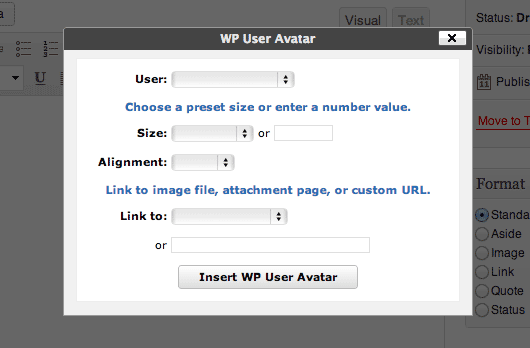
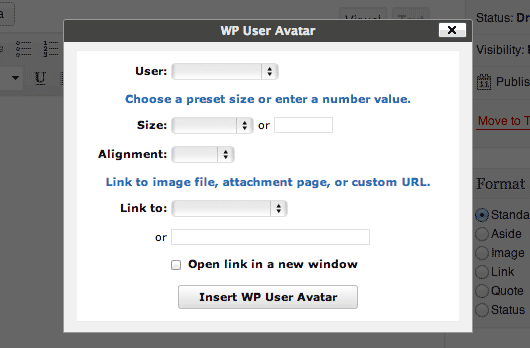
Add target to link in shortcode.

diff --git a/includes/tinymce/editor_plugin.js b/includes/tinymce/editor_plugin.js
@@ -1,1 +1,1 @@
-(function(){tinymce.PluginManager.requireLangPack('wpUserAvatar');tinymce.create('tinymce.plugins.wpUserAvatar',{init:function(ed,url){ed.addCommand('mceWpUserAvatar',function(){ed.windowManager.open({file:ajaxurl+'?action=wp_user_avatar_tinymce',width:400,height:260,inline:1},{plugin_url:url})});ed.addButton('wpUserAvatar',{title:'Insert WP User Avatar',cmd:'mceWpUserAvatar',image:url+'/../../images/wp-user-avatar-32x32.png'});ed.onNodeChange.add(function(ed,cm,n){cm.setActive('wpUserAvatar',n.nodeName=='IMG')})},createControl:function(n,cm){return null},getInfo:function(){return{longname:'WP User Avatar',author:'Bangbay Siboliban',authorurl:'http://siboliban.org/',infourl:'http://wordpress.org/extend/plugins/wp-user-avatar/',version:"1.3.6"}}});tinymce.PluginManager.add('wpUserAvatar',tinymce.plugins.wpUserAvatar)})();
+(function(){tinymce.PluginManager.requireLangPack('wpUserAvatar');tinymce.create('tinymce.plugins.wpUserAvatar',{init:function(ed,url){ed.addCommand('mceWpUserAvatar',function(){ed.windowManager.open({file:ajaxurl+'?action=wp_user_avatar_tinymce',width:400,height:285,inline:1},{plugin_url:url})});ed.addButton('wpUserAvatar',{title:'Insert WP User Avatar',cmd:'mceWpUserAvatar',image:url+'/../../images/wp-user-avatar-32x32.png'});ed.onNodeChange.add(function(ed,cm,n){cm.setActive('wpUserAvatar',n.nodeName=='IMG')})},createControl:function(n,cm){return null},getInfo:function(){return{longname:'WP User Avatar',author:'Bangbay Siboliban',authorurl:'http://siboliban.org/',infourl:'http://wordpress.org/extend/plugins/wp-user-avatar/',version:"1.3.6"}}});tinymce.PluginManager.add('wpUserAvatar',tinymce.plugins.wpUserAvatar)})();

diff --git a/includes/tinymce/editor_plugin.src.js b/includes/tinymce/editor_plugin.src.js
@@ -21,7 +21,7 @@
             // call content via admin-ajax, no need to know the full plugin path
           file : ajaxurl + '?action=wp_user_avatar_tinymce',
           width : 400,
-          height : 260,
+          height : 285,
           inline : 1
         }, {
           plugin_url : url // Plugin absolute URL

diff --git a/wp-user-avatar.php b/wp-user-avatar.php
@@ -339,10 +339,10 @@ if(!class_exists('wp_user_avatar')){
 
       // Remove width and height for non-numeric sizes
       if(!is_numeric($size)){
-        $avatar .= preg_replace("/(width|height)=\'\d*\'\s/", '', $avatar);
-        $avatar .= preg_replace('/(width|height)=\"\d*\"\s/', '', $avatar);
-        $avatar .= str_replace('wp-user-avatar wp-user-avatar-'.$get_size.' ', '', $avatar);
-        $avatar .= str_replace("class='", "class='wp-user-avatar wp-user-avatar-".$size.$alignclass." ", $avatar);
+        $avatar = preg_replace("/(width|height)=\'\d*\'\s/", '', $avatar);
+        $avatar = preg_replace('/(width|height)=\"\d*\"\s/', '', $avatar);
+        $avatar = str_replace('wp-user-avatar wp-user-avatar-'.$get_size.' ', '', $avatar);
+        $avatar = str_replace("class='", "class='wp-user-avatar wp-user-avatar-".$size.$alignclass." ", $avatar);
       }
     }
     return $avatar;
@@ -485,12 +485,12 @@ if(!class_exists('wp_user_avatar')){
     // [avatar size="medium"]
 
     // Set shortcode attributes
-    extract(shortcode_atts(array('user' => '', 'size' => '96', 'align' => '', 'link' => ''), $atts));
+    extract(shortcode_atts(array('user' => '', 'size' => '96', 'align' => '', 'link' => '', 'target' => ''), $atts));
     // Find user by ID, login, slug, or e-mail address
     if(!empty($user)){
       $user = is_numeric($user) ? get_user_by('id', $user) : get_user_by('login', $user);
-      $user .= empty($user) ? get_user_by('slug', $user) : $user;
-      $user .= empty($user) ? get_user_by('email', $user) : $user;
+      $user = empty($user) ? get_user_by('slug', $user) : $user;
+      $user = empty($user) ? get_user_by('email', $user) : $user;
     }
     // Get user ID
     $id_or_email = !empty($user) ? $user->ID : '';
@@ -498,6 +498,8 @@ if(!class_exists('wp_user_avatar')){
     if(!empty($link)){
       // CSS class is same as link type, except for URL
       $link_class = $link;
+      // Open in new window
+      $target_link = !empty($target) ? ' target="'.$target.'"' : '';
       if($link == 'file'){
         // Get image src
         $image_link = get_wp_user_avatar_src($id_or_email, 'original', $align);
@@ -510,7 +512,7 @@ if(!class_exists('wp_user_avatar')){
         $link_class = 'custom';
       }
       // Wrap the avatar inside the link
-      $avatar = '<a href="'.$image_link.'" class="wp-user-avatar-link wp-user-avatar-'.$link_class.'">'.get_wp_user_avatar($id_or_email, $size, $align).'</a>';
+      $avatar = '<a href="'.$image_link.'" class="wp-user-avatar-link wp-user-avatar-'.$link_class.'"'.$target_link.'>'.get_wp_user_avatar($id_or_email, $size, $align).'</a>';
     } else {
       // Get wp_user_avatar as normal
       $avatar = get_wp_user_avatar($id_or_email, $size, $align);

diff --git a/includes/tinymce/window.php b/includes/tinymce/window.php
@@ -13,9 +13,9 @@
   <title>WP User Avatar</title>
   <meta http-equiv="Content-Type" content="<?php bloginfo('html_type'); ?>; charset=<?php echo get_option('blog_charset'); ?>" />
   <base target="_self" />
+  <script type="text/javascript" src="<?php echo site_url(); ?>/wp-includes/js/jquery/jquery.js"></script>
   <script type="text/javascript" src="<?php echo site_url(); ?>/wp-includes/js/tinymce/tiny_mce_popup.js"></script>
   <script type="text/javascript" src="<?php echo site_url(); ?>/wp-includes/js/tinymce/utils/form_utils.js"></script>
-  <script type="text/javascript" src="<?php echo site_url(); ?>/wp-includes/js/jquery/jquery.js"></script>
   <script type="text/javascript">
     function insert_wp_user_avatar(){
       // Custom shortcode values
@@ -26,6 +26,7 @@
       var align = document.getElementById('wp_user_avatar_align').value;
       var link = document.getElementById('wp_user_avatar_link').value;
       var link_external = document.getElementById('wp_user_avatar_link_external').value;
+      var target = document.getElementById('wp_user_avatar_target').value;
 
       // Add tag to shortcode only if not blank
       var user_tag = (user != '') ? ' user="' + user + '"' : '';
@@ -34,8 +35,9 @@
       var align_tag = (align != '') ? ' align="' + align + '"' : '';
       var link_tag = (link != '' && link_external == '') ? ' link="' + link + '"' : '';
       link_tag = (link_external != '') ? ' link="' + link_external + '"' : link_tag;
+      var target_tag = document.getElementById('wp_user_avatar_target').checked && (link_tag != '') ? ' target="' + target + '"' : '';
  
-      shortcode = "<p>[avatar" + user_tag + size_tag + align_tag + link_tag + "]</p>";
+      shortcode = "<p>[avatar" + user_tag + size_tag + align_tag + link_tag + target_tag + "]</p>";
 
       if(window.tinyMCE) {
         window.tinyMCE.execInstanceCommand(window.tinyMCE.activeEditor.id, 'mceInsertContent', false, shortcode);
@@ -100,7 +102,12 @@
 
     <p>
       <label for="<?php esc_attr_e('wp_user_avatar_link_external'); ?>">or</label>
-      <input type="text" size="36" id="<?php esc_attr_e('wp_user_avatar_link_external'); ?>" name="<?php esc_attr_e('wp_user_avatar_link'); ?>" value="" />
+      <input type="text" size="36" id="<?php esc_attr_e('wp_user_avatar_link_external'); ?>" name="<?php esc_attr_e('wp_user_avatar_link_external'); ?>" value="" />
+    </p>
+
+    <p>
+      <label for="<?php esc_attr_e('wp_user_avatar_target'); ?>"></label>
+      <input type="checkbox" id="<?php esc_attr_e('wp_user_avatar_target'); ?>" name="<?php esc_attr_e('wp_user_avatar_target'); ?>" value="_blank" /> <strong>Open link in a new window</strong>
     </p>
 
     <div class="mceActionPanel">
